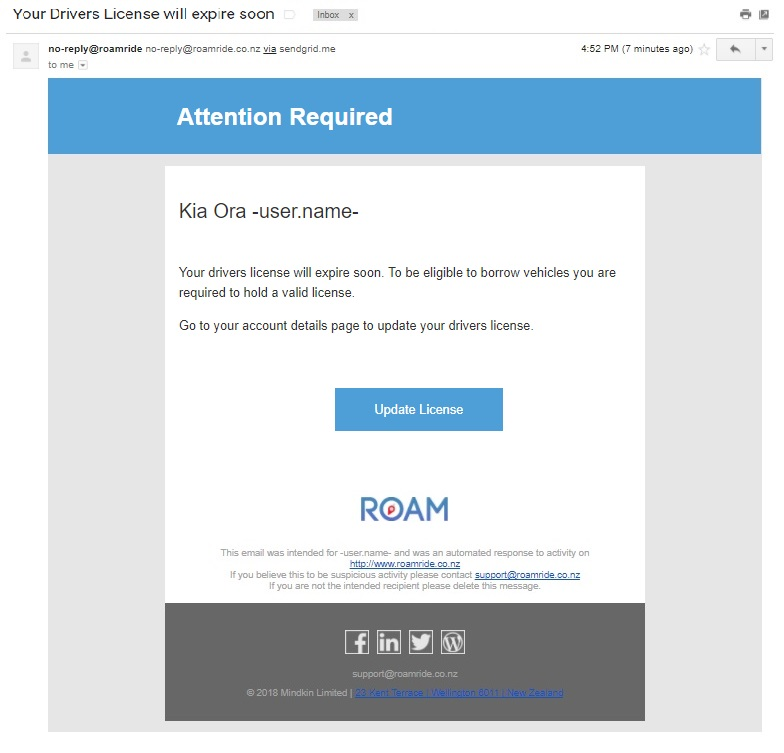
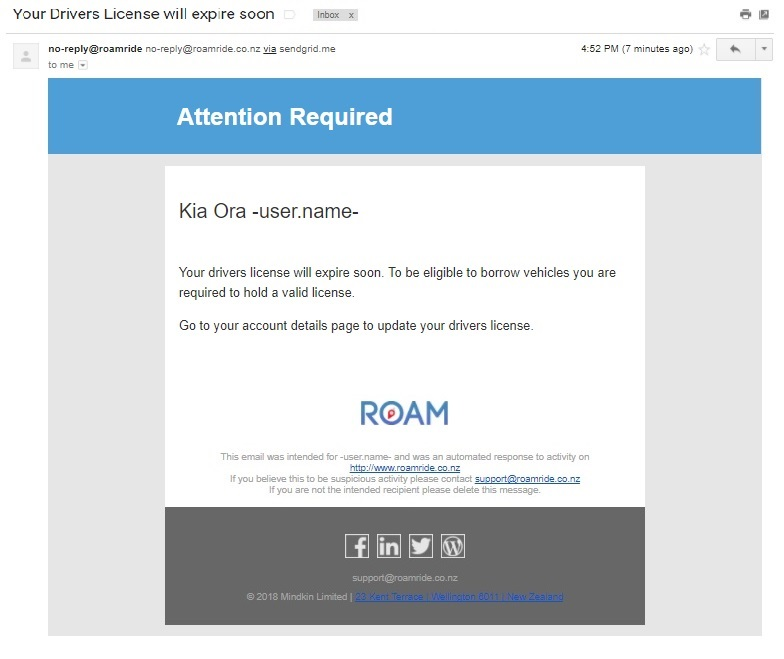
Update Expiring License

diff --git a/docs/notifications.md b/docs/notifications.md
@@ -40,7 +40,7 @@ title: Notifications
 For key events in Hourfleet, users will receive SMS and Email notifications. For example when they join your network, or when they book a car.
 Here you can see an example of all the SMS and Email notifications that get sent and at which key events they happen.
 If you would like to be notified of these events at the same time as your customers you can do this through Zapier Integration. To find out how to do this visit the [Zapier Integration](zapier.html) page. 
-  
+
 ## Email Configuration
 
 Some email elements are determined by your [Network Operator configuration file](youconfigure.html) and will be the same across all the email notifications that are sent. In the image examples below references to 'Roam' by name, URLs or images will be replaced with your network counterpart.
@@ -288,7 +288,6 @@ Substitutions Available:
 `user.name`
 `user.firstname`
 `user.lastname`
-`verifications.url`
 
 **Email**
 
@@ -296,7 +295,7 @@ Substitutions Available:
 
 **SMS**
 
-> Your drivers license expires soon. Update it here: %verification.url%
+> Your drivers license will expire soon. Please review your profile and update your drivers license.
 
 
 
